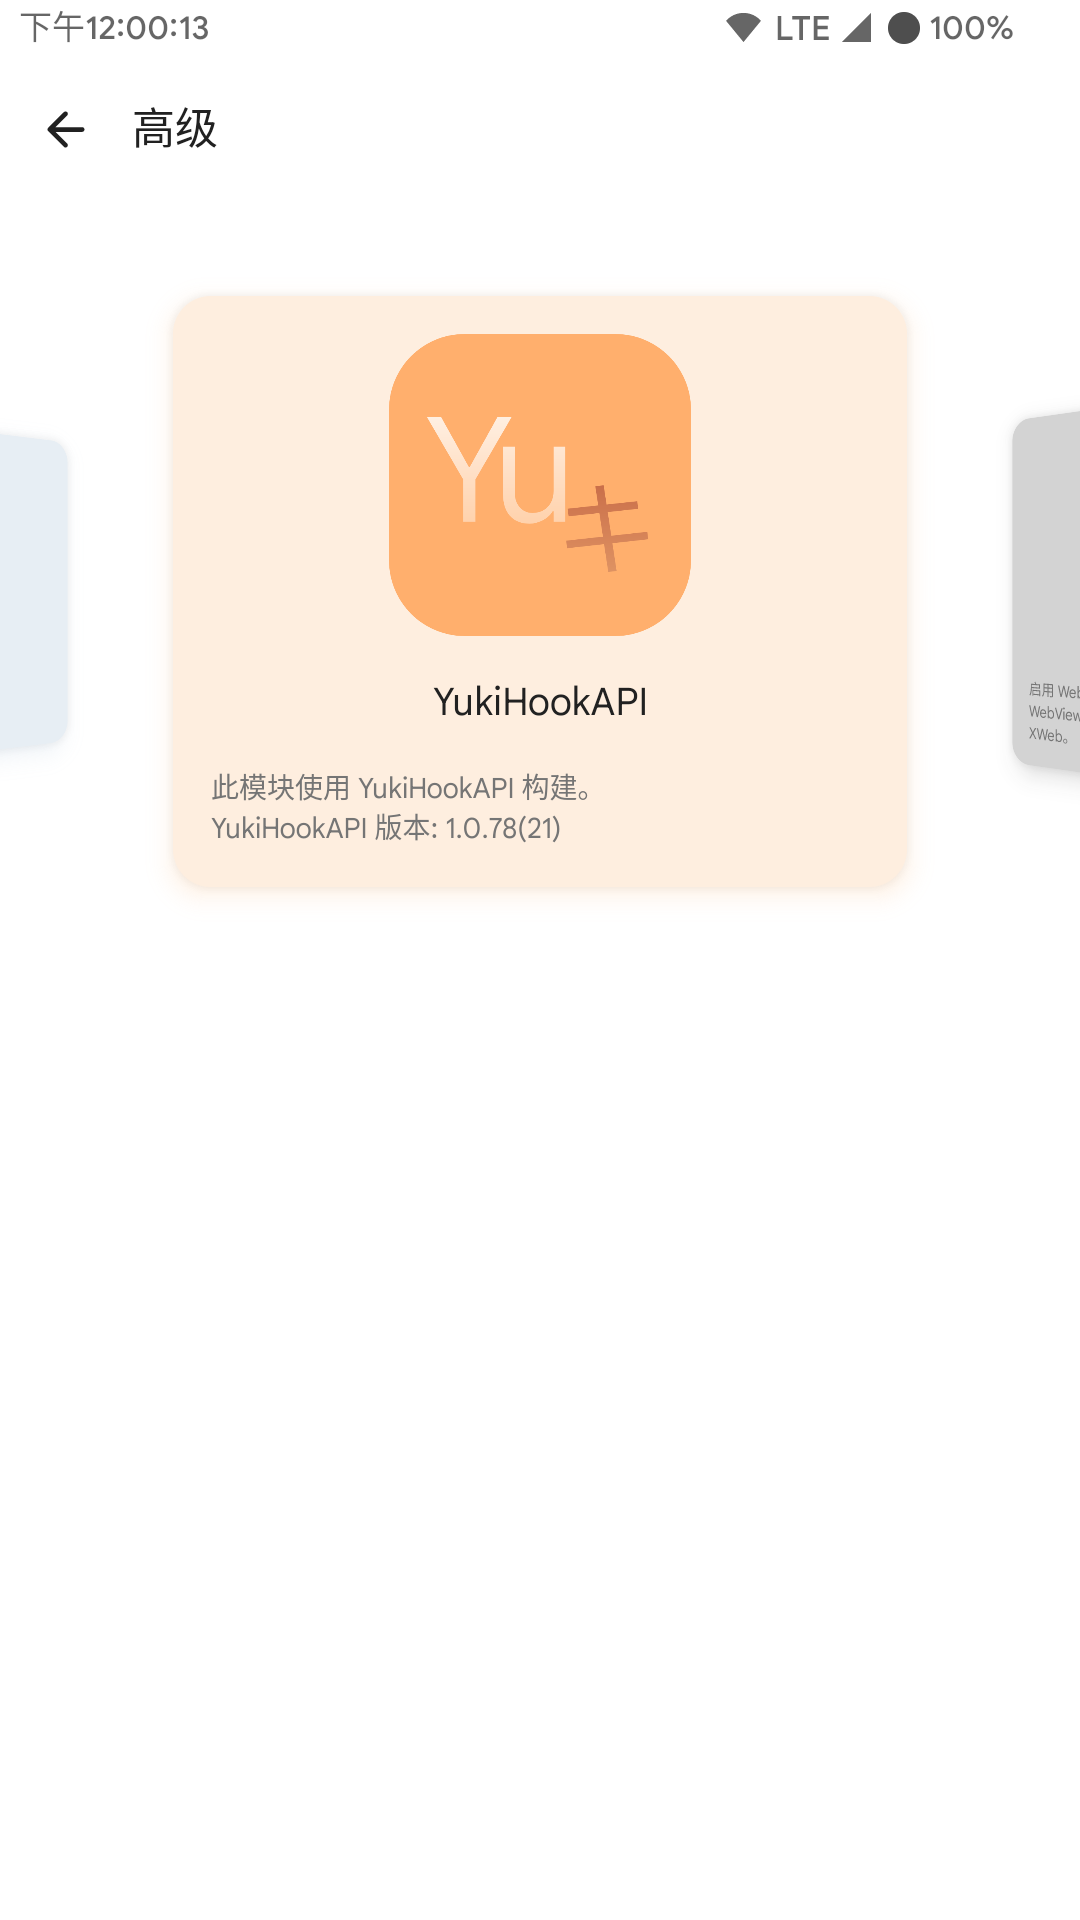
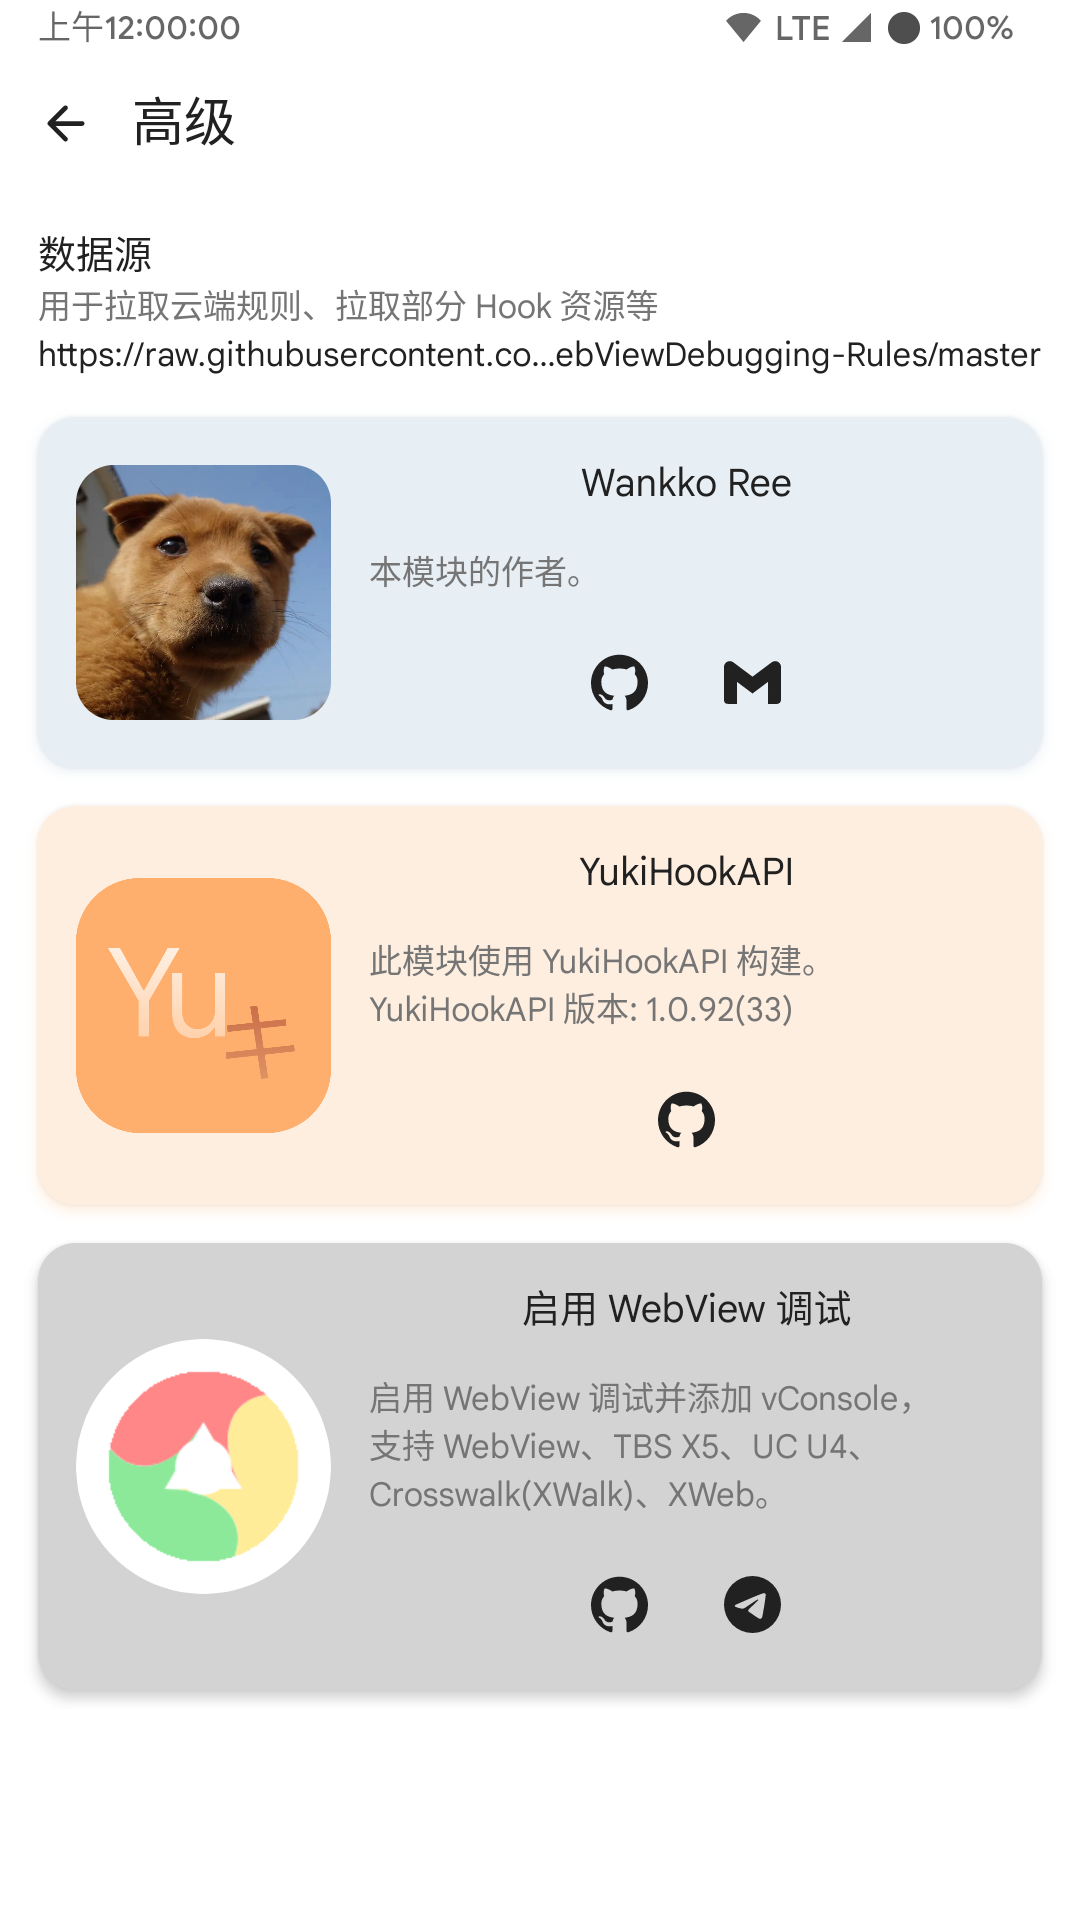
doc: 更新一些截图

diff --git a/README.md b/README.md
@@ -31,9 +31,12 @@ Enable WebView debugging and add vConsole in it. Support WebView, TBS X5, UC U4,
 <div align="center">
   <img width="256" src="https://raw.githubusercontent.com/WankkoRee/EnableWebViewDebugging/master/docs/Screenshot_main.png" />
   <img width="256" src="https://raw.githubusercontent.com/WankkoRee/EnableWebViewDebugging/master/docs/Screenshot_apps.png" />
-  <img width="256" src="https://raw.githubusercontent.com/WankkoRee/EnableWebViewDebugging/master/docs/Screenshot_app.png" />
+  <img width="256" src="https://raw.githubusercontent.com/WankkoRee/EnableWebViewDebugging/master/docs/Screenshot_app_1.png" />
+  <img width="256" src="https://raw.githubusercontent.com/WankkoRee/EnableWebViewDebugging/master/docs/Screenshot_app_2.png" />
   <img width="256" src="https://raw.githubusercontent.com/WankkoRee/EnableWebViewDebugging/master/docs/Screenshot_rule.png" />
+  <img width="256" src="https://raw.githubusercontent.com/WankkoRee/EnableWebViewDebugging/master/docs/Screenshot_cloud_rule.png" />
   <img width="256" src="https://raw.githubusercontent.com/WankkoRee/EnableWebViewDebugging/master/docs/Screenshot_resources.png" />
+  <img width="256" src="https://raw.githubusercontent.com/WankkoRee/EnableWebViewDebugging/master/docs/Screenshot_resources_downloading.png" />
   <img width="256" src="https://raw.githubusercontent.com/WankkoRee/EnableWebViewDebugging/master/docs/Screenshot_advance.png" />
 </div>
 
